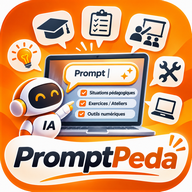
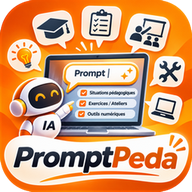
Icônes d'installation détourées (fond transparent) + maskable, manifeste corrigé
Claude-Session: https://claude.ai/code/session_01DWMzvDjuQqdn6i5FnQMur8

diff --git a/index.html b/index.html
@@ -3,7 +3,7 @@
 <meta name="viewport" content="width=device-width,initial-scale=1,viewport-fit=cover">
 <title>PromptPeda – Mes Apps EPS</title>
 <link rel="manifest" href="manifest.webmanifest"><meta name="theme-color" content="#14151a">
-<link rel="icon" href="icons/icon-192.png"><link rel="apple-touch-icon" href="icons/icon-192.png">
+<link rel="icon" href="icons/icon-192.png"><link rel="apple-touch-icon" href="icons/icon-maskable-192.png">
 <meta name="apple-mobile-web-app-capable" content="yes"><meta name="mobile-web-app-capable" content="yes">
 <style>
 :root{--ink:#1b2a49;--blue:#0040d0;--blue2:#1f8bff;--orange:#ff5e00;--orange2:#ffa21f;--line:#0b4fd033;--ok:#1a8a3a;--ko:#c0392b}

diff --git a/version.js b/version.js
@@ -1,1 +1,1 @@
-const APP_VERSION="1.0.4"; // ← seul endroit à modifier pour changer la version
+const APP_VERSION="1.0.5"; // ← seul endroit à modifier pour changer la version
